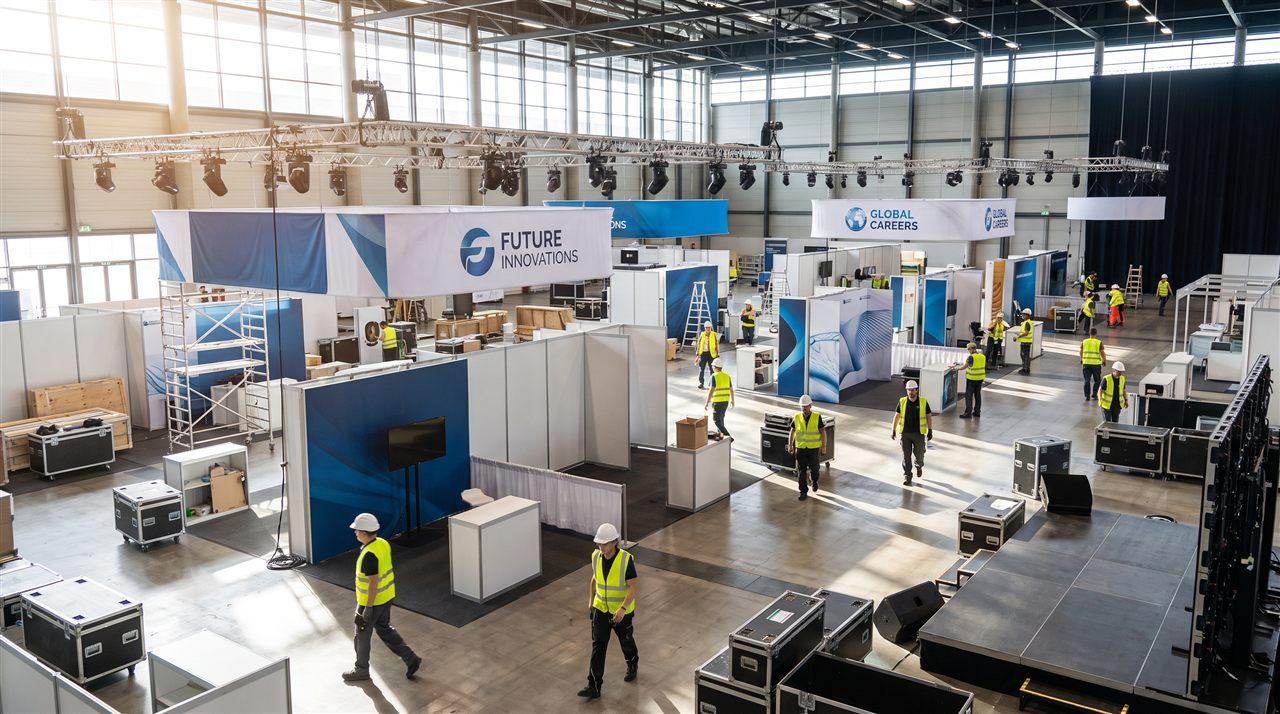
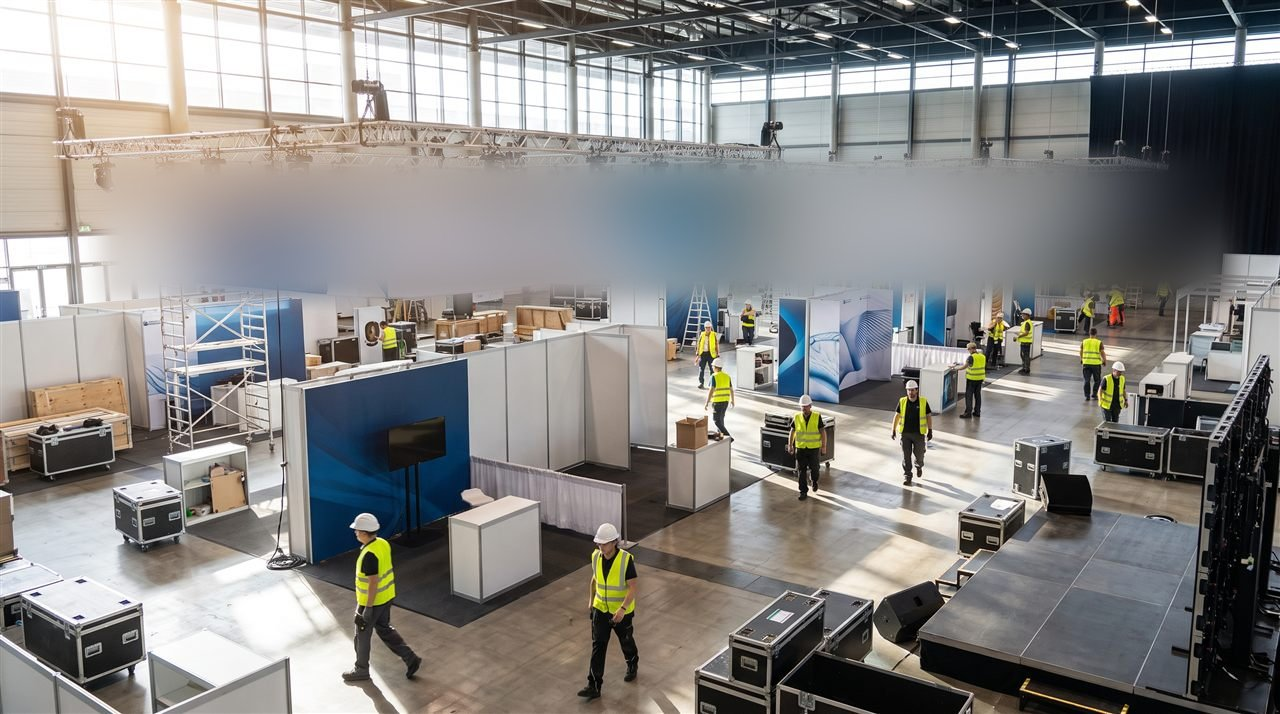
求人ボックス掲載プラン: エリアを関西統一＋営業画像を顔なし/文字なしで新規追加
- seed-plan-remix-20260906.js: 0902版の会社×職種ミックスを踏襲し、エリアを
  大阪＋大阪寄りの兵庫・京都(48拠点)に統一（bi も東京プールから変更）。
  9/2バッチと丁目サフィックスが被らないよう開始インデックスをオフセット。
  職種カテゴリを8種に再分割し、送迎(chauffeur)・技術/メンテナンス(technician)を
  driver/mfgから分離（画像の職種ミスマッチ解消が目的、実画像は準備中のため暫定フォールバック）。
- jobcat-sales.jpg: 営業系の新規画像（後ろ姿・顔なし・文字なし確認済み）を追加。
- jobcat-event.jpg: 元画像に写り込んでいた架空企業名の看板テキスト
  （FUTURE INNOVATIONS / GLOBAL CAREERS）を画像編集でぼかして除去。

不足分（送迎/技術/軽作業の専用画像）は生成クレジット切れのため未完了。
現状は顔ありの生成画像を不採用にし、顔なし/文字なし確認済みの既存画像に暫定フォールバック。

Claude-Session: https://claude.ai/code/session_01BeP5hd8tDi12pU6xZrvHws

Changed region(s): [[0.0625, 0.1849, 0.9688, 0.4314], [0.0625, 0.2157, 0.0938, 0.2773]]

diff --git a/recruitment-platform/scripts/seed-plan-remix-20260906.js b/recruitment-platform/scripts/seed-plan-remix-20260906.js
@@ -1,0 +1,169 @@
+#!/usr/bin/env node
+'use strict';
+/**
+ * 掲載プラン一括生成（2026-09-06版・求人ボックス専用・関西エリア統一）
+ * seed-plan-remix-20260902.js を踏襲。会社×職種の構成（ミックス）は同一のまま、
+ * エリアを「大阪＋大阪寄りの兵庫・京都」に統一（bi も東京プールから関西プールへ変更）。
+ *  - target_media = ['求人ボックス'] 固定。職種カテゴリごとに画像(imageUrl)を自動割当。
+ *  - 【重要】現在掲載中の求人は一切編集・削除しない。追加のみ（既存はそのまま）。
+ *  - 全社共通の単一エリアカウンタを使用（タイトルに会社名が入らないため、会社間でエリアが重複しないよう統一管理）。
+ *  - 開始インデックスをプール3周分（サフィックス4丁目〜）にオフセットし、9/2バッチ（大阪35件プール・0〜2周目）
+ *    および東京プール(bi旧版)と丁目サフィックスが被らないようにして重複を防止。
+ *
+ * 実行: node --experimental-sqlite scripts/seed-plan-remix-20260906.js          （DRY-RUN・作成内容を表示）
+ *        node --experimental-sqlite scripts/seed-plan-remix-20260906.js --apply （実際に新規追加）
+ */
+const path = require('path');
+const fs = require('fs');
+(function loadEnv(){ const f=path.join(__dirname,'..','.env'); if(!fs.existsSync(f))return;
+  fs.readFileSync(f,'utf8').split('\n').forEach(l=>{l=l.trim(); if(!l||l.startsWith('#'))return; const i=l.indexOf('='); if(i<0)return; const k=l.slice(0,i).trim(),v=l.slice(i+1).trim(); if(k&&!(k in process.env))process.env[k]=v;});
+})();
+
+const { Jobs } = require('../db-factory');
+const APPLY = process.argv.includes('--apply');
+const NOW = new Date().toISOString();
+
+// ── 会社名 ──
+const CONAME = { sq:'SQ', bg:'ビッグ(Bigeyes)', st:'Style501', nl:'NOWLIVE', bi:'BrandideaL', nx:'ネクサス' };
+
+// ── 関西エリアプール（大阪中心＋大阪寄りの兵庫・京都）。全社共通の単一プール／単一カウンタで重複防止 ──
+const KANSAI = [
+  // 大阪（35：既存0902バッチと同一の大阪ワード群）
+  { ward:'大阪市北区',pref:'大阪府' },{ ward:'大阪市中央区',pref:'大阪府' },{ ward:'大阪市西区',pref:'大阪府' },
+  { ward:'大阪市淀川区',pref:'大阪府' },{ ward:'大阪市東淀川区',pref:'大阪府' },{ ward:'大阪市都島区',pref:'大阪府' },
+  { ward:'大阪市城東区',pref:'大阪府' },{ ward:'大阪市鶴見区',pref:'大阪府' },{ ward:'大阪市旭区',pref:'大阪府' },
+  { ward:'大阪市天王寺区',pref:'大阪府' },{ ward:'大阪市阿倍野区',pref:'大阪府' },{ ward:'大阪市住吉区',pref:'大阪府' },
+  { ward:'大阪市東住吉区',pref:'大阪府' },{ ward:'大阪市平野区',pref:'大阪府' },{ ward:'大阪市生野区',pref:'大阪府' },
+  { ward:'大阪市東成区',pref:'大阪府' },{ ward:'大阪市浪速区',pref:'大阪府' },{ ward:'大阪市西成区',pref:'大阪府' },
+  { ward:'大阪市住之江区',pref:'大阪府' },{ ward:'大阪市港区',pref:'大阪府' },{ ward:'大阪市大正区',pref:'大阪府' },
+  { ward:'大阪市此花区',pref:'大阪府' },{ ward:'大阪市福島区',pref:'大阪府' },{ ward:'堺市堺区',pref:'大阪府' },
+  { ward:'堺市北区',pref:'大阪府' },{ ward:'東大阪市',pref:'大阪府' },{ ward:'吹田市',pref:'大阪府' },
+  { ward:'豊中市',pref:'大阪府' },{ ward:'高槻市',pref:'大阪府' },{ ward:'茨木市',pref:'大阪府' },
+  { ward:'枚方市',pref:'大阪府' },{ ward:'八尾市',pref:'大阪府' },{ ward:'寝屋川市',pref:'大阪府' },
+  { ward:'守口市',pref:'大阪府' },{ ward:'門真市',pref:'大阪府' },
+  // 大阪寄りの兵庫（阪神間・6）
+  { ward:'尼崎市',pref:'兵庫県' },{ ward:'西宮市',pref:'兵庫県' },{ ward:'伊丹市',pref:'兵庫県' },
+  { ward:'宝塚市',pref:'兵庫県' },{ ward:'川西市',pref:'兵庫県' },{ ward:'芦屋市',pref:'兵庫県' },
+  // 大阪寄りの京都（洛南・7）
+  { ward:'京都市伏見区',pref:'京都府' },{ ward:'京都市南区',pref:'京都府' },{ ward:'向日市',pref:'京都府' },
+  { ward:'長岡京市',pref:'京都府' },{ ward:'八幡市',pref:'京都府' },{ ward:'京田辺市',pref:'京都府' },
+  { ward:'乙訓郡大山崎町',pref:'京都府' },
+];
+const POOL_LEN = KANSAI.length; // 48
+// 9/2バッチ（大阪35件プール×3周＝105件／bi東京15件プール×2周弱＝26件）と丁目サフィックスが
+// 絶対に被らないよう、3周目終了以降（サフィックス"4丁目"〜）から開始する。
+let areaIdx = POOL_LEN * 3;
+function nextArea(){
+  const idx = areaIdx++;
+  const cycle = Math.floor(idx / POOL_LEN);
+  const item = KANSAI[idx % POOL_LEN];
+  const area = `${item.ward}${cycle + 1}丁目`; // cycle3→"4丁目", cycle4→"5丁目", ...
+  return { area, pref: item.pref, location: `${item.pref}${area}` };
+}
+
+// ── 職種カテゴリ（給与レンジは万円） ──
+// 0902版の6カテゴリから、実際の仕事内容と画像が一致するよう8カテゴリに再分割。
+//   driver（配送系）と chauffeur（送迎＝乗用車での送り迎え）を分離。
+//   mfg（製造/品管）と technician（メンテナンス/技術）を分離。
+//   warehouse（軽作業系）と sales（営業系）は office/mfg から独立の専用画像に。
+const CAT = {
+  driver:    { s:[300000,450000] }, chauffeur:{ s:[300000,450000] },
+  warehouse: { s:[220000,300000] }, mfg:{ s:[260000,380000] }, technician:{ s:[270000,400000] },
+  sales:     { s:[280000,500000] }, office:{ s:[230000,330000] }, event:{ s:[250000,360000] }, special:{ s:[300000,450000] },
+};
+const TYPE_CAT = {
+  '配送':'driver','中型ドライバー':'driver','ec配送':'driver','イベント配送':'driver','展示会配送':'driver','企業配送':'driver',
+  '送迎':'chauffeur',
+  '軽作業':'warehouse','梱包':'warehouse','組み立て':'warehouse','ピッキング':'warehouse','検品':'warehouse','物流倉庫':'warehouse',
+  '製造':'mfg','品質管理':'mfg',
+  '技術':'technician','メンテナンス':'technician',
+  '営業':'sales','ルート営業':'sales','IT営業':'sales','コンサル営業':'sales','イベント営業':'sales','既存顧客営業':'sales',
+  '事務':'office','ITサポート':'office','運行管理':'office',
+  'イベント設営':'event','イベント企画':'event','イベント販売':'event','イベントスタッフ':'event','企画':'event',
+  '昼アゲ様用':'special',
+};
+const man = n => `${Math.round(n/10000)}万`;
+const salaryLabel = c => `月給${man(CAT[c].s[0])}〜${man(CAT[c].s[1])}円`;
+const salaryDetail = c => `月給${CAT[c].s[0].toLocaleString()}円〜${CAT[c].s[1].toLocaleString()}円（経験・能力を考慮）`;
+
+// ── カテゴリ別 本文テンプレ（chauffeur/technicianを新規追加。他は0902版と同一） ──
+const DESC = {
+  driver: (t,a)=>`【仕事内容】\n${a}を中心に、${t}のお仕事をお任せします。決まったルート・エリアが中心なので、未経験の方でも安心して始められます。\n\n【主な業務】\n・荷物/商品の積み込み・運搬・お届け\n・配達先での受け渡し、伝票・記録の確認\n・車両の日常点検\n\n【応募資格】\n普通自動車運転免許（AT限定可）／未経験・ブランク歓迎・学歴不問\n\n【待遇・福利厚生】\n各種社会保険完備／交通費支給／車両・燃料は会社負担／研修あり／昇給・賞与あり\n\n【勤務】\n日勤メイン・実働8時間／週休2日／転勤なし`,
+  chauffeur:(t,a)=>`【仕事内容】\n${a}を中心に、${t}のお仕事をお任せします。お客様・スタッフの送り迎えが中心で、丁寧な接客も大切なポジションです。\n\n【主な業務】\n・乗用車でのお客様/スタッフの送迎\n・車内外の清掃、車両の日常点検\n・スケジュールに合わせた運行管理\n\n【応募資格】\n普通自動車運転免許（AT限定可）／未経験歓迎・学歴不問／丁寧な対応ができる方\n\n【待遇・福利厚生】\n各種社会保険完備／交通費支給／車両・燃料は会社負担／研修あり／昇給・賞与あり\n\n【勤務】\n日勤メイン・実働8時間／週休2日／転勤なし`,
+  warehouse:(t,a)=>`【仕事内容】\n${a}の倉庫・作業場での${t}のお仕事です。かんたんな軽作業が中心で、未経験の方も歓迎です。\n\n【主な業務】\n・商品の${t}（仕分け・梱包・検品・ピッキング等）\n・入出荷の補助、数量チェック\n・作業場の整理\n\n【応募資格】\n未経験歓迎・学歴不問／もくもく作業が好きな方歓迎\n\n【待遇・福利厚生】\n各種社会保険完備／交通費支給／空調完備／研修あり／昇給あり\n\n【勤務】\n実働8時間・週休2日／シフト応相談`,
+  mfg:(t,a)=>`【仕事内容】\n${a}の拠点で、${t}のお仕事をお任せします。手順やマニュアルがあり、未経験からでも段階的に習得できます。\n\n【主な業務】\n・${t}に関わる作業・チェック・記録\n・製造ライン/設備の確認\n・品質確認、報告\n\n【応募資格】\n未経験歓迎・学歴不問（経験者は優遇）\n\n【待遇・福利厚生】\n各種社会保険完備／交通費支給／資格取得支援／昇給・賞与あり\n\n【勤務】\n実働8時間・週休2日／転勤なし`,
+  technician:(t,a)=>`【仕事内容】\n${a}の拠点で、${t}のお仕事をお任せします。設備・機器の点検やチェックが中心で、手順に沿って段階的に習得できます。\n\n【主な業務】\n・設備/機器の点検・かんたんな保守作業\n・タブレット等を使った点検記録の入力\n・異常があった場合の報告・連絡\n\n【応募資格】\n未経験歓迎・学歴不問（経験者は優遇）\n\n【待遇・福利厚生】\n各種社会保険完備／交通費支給／資格取得支援／昇給・賞与あり\n\n【勤務】\n実働8時間・週休2日／転勤なし`,
+  sales:(t,a)=>`【仕事内容】\n${a}エリアで、${t}をお任せします。既存のお客様中心・ノルマに追われない提案営業です。未経験歓迎。\n\n【主な業務】\n・お客様への訪問・ヒアリング・提案\n・見積・受発注・アフターフォロー\n・活動記録の入力\n\n【応募資格】\n普通自動車運転免許（あれば尚可）／未経験歓迎・学歴不問\n\n【待遇・福利厚生】\n各種社会保険完備／交通費支給／インセンティブ／昇給・賞与あり\n\n【勤務】\n実働8時間・週休2日／転勤なし`,
+  office:(t,a)=>`【仕事内容】\n${a}の拠点で、${t}のお仕事をお任せします。基本的なPC操作ができればOK、未経験・ブランクの方も歓迎です。\n\n【主な業務】\n・データ入力・書類作成・電話/メール対応\n・各種手配・管理サポート\n・その他かんたんな庶務\n\n【応募資格】\n基本的なPC操作／未経験歓迎・学歴不問\n\n【待遇・福利厚生】\n各種社会保険完備／交通費支給／研修あり／昇給あり\n\n【勤務】\n実働8時間・週休2日／転勤なし`,
+  event:(t,a)=>`【仕事内容】\n${a}を中心に、${t}のお仕事をお任せします。イベント・展示会などの現場が中心で、活気ある環境です。未経験歓迎。\n\n【主な業務】\n・${t}（設営・運営・販売・企画補助など）\n・会場での準備・撤収、来場対応\n・関係先との連絡調整\n\n【応募資格】\n未経験歓迎・学歴不問／人と接するのが好きな方\n\n【待遇・福利厚生】\n各種社会保険完備／交通費支給／昇給あり\n\n【勤務】\n実働8時間・シフト制／週休2日`,
+  special:(t,a)=>`【仕事内容】\n${a}を中心に、${t}に関わる業務をお任せします。未経験の方も歓迎、丁寧にサポートします。\n\n【応募資格】\n未経験歓迎・学歴不問（普通自動車免許があれば尚可）\n\n【待遇・福利厚生】\n各種社会保険完備／交通費支給／研修あり／昇給あり\n\n【勤務】\n実働8時間・週休2日／転勤なし`,
+};
+
+// 職種カテゴリ → 画像。
+//   「顔なし・文字なし」の条件で用意できた jobcat-sales.jpg のみ新規反映。
+//   chauffeur/technician/warehouse は生成済みだが顔が写っており不採用（クレジット切れで撮り直し未了）。
+//   撮り直しまでは、顔なし・文字なしを確認済みの既存アセットへ一時フォールバックする。
+//   jobcat-event.jpg は元画像に架空社名の看板テキストが写り込んでいたため、画像編集でぼかして除去済み。
+const IMG = {
+  driver: '/images/haisou-fleet.jpg',        // 配送車両（既存・顔なし/文字なし確認済み）
+  chauffeur: '/images/haisou-fleet.jpg',     // 【暫定】専用画像は顔あり不採用のため既存流用。要差し替え
+  warehouse: '/images/jobcat-factory.jpg',   // 【暫定】専用画像は顔あり不採用のため既存流用。要差し替え
+  mfg: '/images/jobcat-factory.jpg',         // 既存：整った工場/作業場（顔なし/文字なし確認済み）
+  technician: '/images/jobcat-factory.jpg',  // 【暫定】専用画像は顔あり不採用のため既存流用。要差し替え
+  sales: '/images/jobcat-sales.jpg',         // 新規生成：外回り営業・後ろ姿（顔なし/文字なし確認済み）
+  office: '/images/jobcat-office.jpg',       // 既存：明るいオフィス（顔なし/文字なし確認済み）
+  event: '/images/jobcat-event.jpg',         // 既存：展示会/イベント設営（看板テキストをぼかして除去済み）
+  special: '/images/haisou-fleet.jpg',
+};
+const imageFor = cat => IMG[cat] || '/images/haisou-fleet.jpg';
+
+function buildJob(co, type){
+  const cat = TYPE_CAT[type] || 'office';
+  const { area, location } = nextArea();
+  const sl = salaryLabel(cat);
+  const isDriver = cat==='driver' || cat==='chauffeur' || cat==='special';
+  const title = `【${area}】${type}｜${sl}・未経験歓迎・正社員${isDriver?'・普通免許OK':''}`;
+  const catchcopy = `${type}（${area}）｜${sl}・未経験歓迎の正社員募集。${isDriver?'普通免許でOK。':'マニュアル・研修があり安心。'}週休2日・各種社会保険完備。`;
+  return {
+    title, location, salary: salaryDetail(cat), jobType: type, employmentType: '正社員',
+    description: DESC[cat](type, area), tags: ['未経験歓迎','正社員',type, sl,'週休2日','社会保険完備'],
+    catchcopy, imageUrl: imageFor(cat), isPublished: true, publishedAt: NOW, targetMedia: null, company: co,
+  };
+}
+
+// ── 掲載プラン（0902版と同一のミックス。エリアのみ関西統一プールに変更）──
+const PLAN = [
+  { media:'求人ボックス', co:'sq', mix:{'配送':6,'送迎':5,'中型ドライバー':6,'メンテナンス':1,'IT営業':1,'ITサポート':1,'製造':1,'品質管理':1,'軽作業':1,'梱包':1,'組み立て':1,'ピッキング':1} },
+  { media:'求人ボックス', co:'bg', mix:{'配送':5,'送迎':5,'中型ドライバー':5,'メンテナンス':1,'ルート営業':1,'事務':1,'品質管理':1,'軽作業':1,'梱包':1,'組み立て':1,'ピッキング':1,'検品':1,'物流倉庫':1} },
+  { media:'求人ボックス', co:'st', mix:{'送迎':5,'配送':5,'中型ドライバー':5,'技術':1,'メンテナンス':1,'ルート営業':1,'事務':1,'品質管理':1,'軽作業':1,'梱包':1,'検品':1,'ピッキング':1,'物流倉庫':1} },
+  { media:'求人ボックス', co:'nl', mix:{'送迎':5,'配送':5,'中型ドライバー':5,'イベント設営':1,'イベント企画':1,'イベント販売':1,'ルート営業':1,'メンテナンス':1,'組み立て':1,'事務':1,'品質管理':1,'軽作業':1,'梱包':1} },
+  { media:'求人ボックス', co:'bi', mix:{'送迎':6,'配送':6,'中型ドライバー':6,'コンサル営業':1,'企画':1,'イベント営業':1,'メンテナンス':1,'ITサポート':1,'軽作業':1,'技術':1} },
+];
+
+async function main(){
+  console.log(`\n=== 掲載プラン ${APPLY?'反映(--apply)':'DRY-RUN'} / ${NOW.slice(0,10)}（関西エリア統一版） ===`);
+  console.log('※ 現在掲載中の求人は編集・削除しません。新規のみ追加します（同一タイトルはスキップ）。');
+  console.log(`※ エリアは大阪＋大阪寄りの兵庫・京都（全${POOL_LEN}拠点）から、開始インデックス${areaIdx}（4丁目〜）で採番し、9/2バッチと重複しません。\n`);
+  const existing = await Jobs.findAll();
+  const existingTitles = new Set(existing.map(j => j.title));
+  let created=0, skipped=0;
+  for (const p of PLAN) {
+    const total = Object.values(p.mix).reduce((a,b)=>a+b,0);
+    console.log(`\n[${p.media}] ${CONAME[p.co]}(${p.co})  新規追加 ${total}件`);
+    for (const [type,count] of Object.entries(p.mix)) {
+      let made=0;
+      for (let i=0;i<count;i++){
+        const job = buildJob(p.co, type); job.targetMedia = [p.media];
+        if (existingTitles.has(job.title)) { skipped++; continue; }
+        existingTitles.add(job.title);
+        if (APPLY) await Jobs.create(job);
+        created++; made++;
+        if (made===1) console.log(`   ・${type} ×${count}  例: ${job.title.slice(0,50)}`);
+      }
+    }
+  }
+  console.log(`\n${APPLY?'完了':'（DRY-RUN・未反映）'}: 新規作成 ${created}件 / スキップ(既存同名) ${skipped}件`);
+  if (!APPLY) console.log('→ 反映するには: node --experimental-sqlite scripts/seed-plan-remix-20260906.js --apply');
+  console.log('※ 既存求人は一切変更していません。給与/本文の調整が必要ならお知らせください。\n');
+}
+main().catch(e=>{ console.error(e); process.exit(1); });
